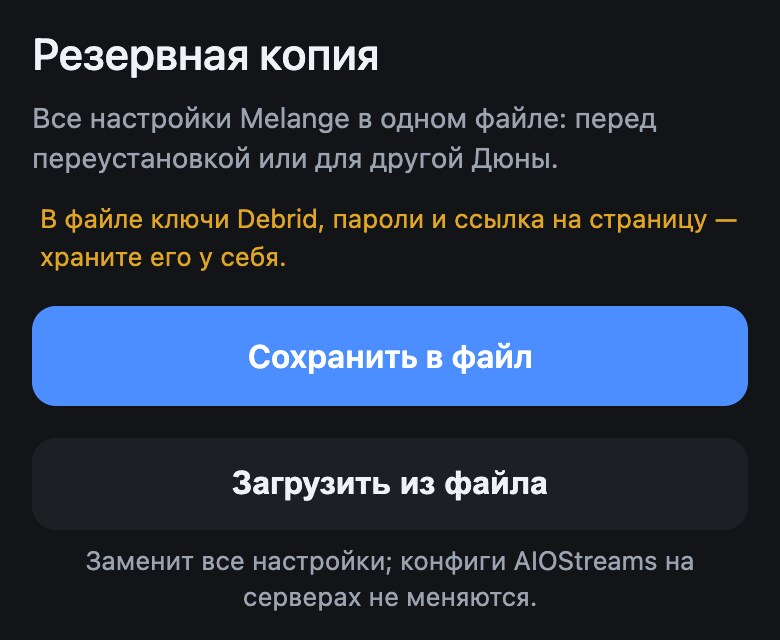
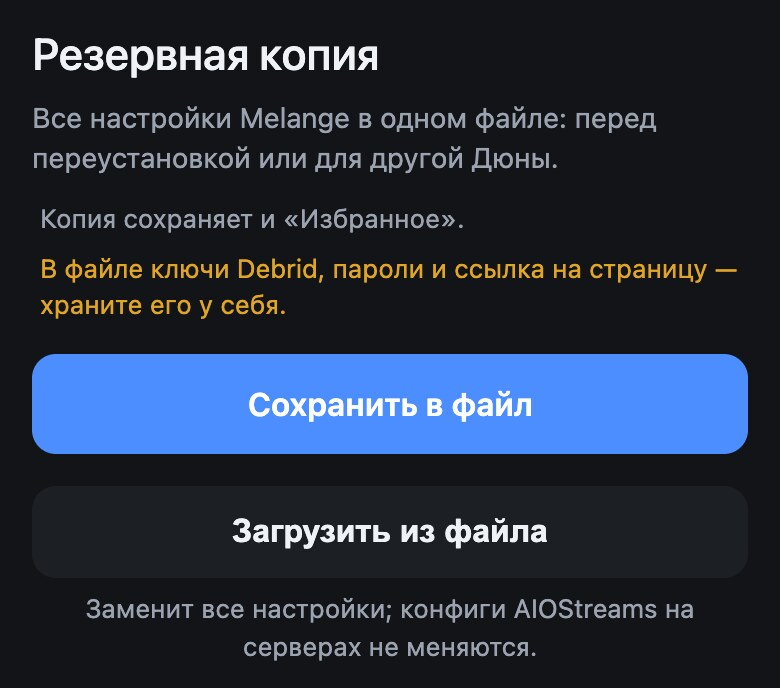
docs: пересняты каталог, своя карточка, «ТВ» и резервная копия под «Избранное», alt по кадрам

diff --git a/docs/tv-tab.md b/docs/tv-tab.md
@@ -14,11 +14,11 @@
 
 3. Под «ТВ» сразу появятся подпункты «Фильмы» и «Сериалы» с рядами каталога. ENTER на постере открывает карточку фильма. Ряды обновляются сами, примерно раз в час.
 
-   <img src="../screenshots/tv-tab-rows.jpg" alt="Вкладка «ТВ», подпункт «Фильмы» с рядами каталога Melange" width="100%">
+   <img src="../screenshots/tv-tab-rows.jpg" alt="Вкладка «ТВ», подпункт «Фильмы»: слева ряды Melange «Продолжить», «Избранное», «В тренде»" width="100%">
 
 4. На постере нажмите **POP UP**: там «Поиск», «Открыть Melange» и «Настройки», а также пункты «Избранного» и отметки просмотренным, как в каталоге ([«Продолжить» и «Избранное»](favorites.md)). Первые ряды «Фильмов» и «Сериалов» — «Продолжить» и «Избранное». Кнопки **Fav** на пульте здесь работают как обычно в Дюне.
 
-   <img src="../screenshots/tv-tab-poster.jpg" alt="POP UP-меню на постере во вкладке «ТВ»: «Поиск», «Открыть Melange», «Настройки»" width="100%">
+   <img src="../screenshots/tv-tab-poster.jpg" alt="POP UP-меню на постере во вкладке «ТВ»: «Убрать из «Продолжить»», «Отметить просмотренным», «Убрать из избранного», «Поиск», «Открыть Melange», «Настройки»" width="100%">
 
 ## Если не получилось
 

diff --git a/docs/watch.md b/docs/watch.md
@@ -6,7 +6,7 @@
 
 1. В каталоге Melange выберите вкладку «Фильмы» или «Сериалы» на полосе сверху.
 
-   <img src="../screenshots/watch-tabs.jpg" alt="Каталог Melange: фокус на вкладке «Фильмы», справа лупа и шестерёнка" width="100%">
+   <img src="../screenshots/watch-tabs.jpg" alt="Каталог Melange: фокус на вкладке «Фильмы», справа сердечко, лупа и шестерёнка" width="100%">
 
 2. Чтобы найти фильм по названию, откройте поиск (лупа на той же полосе), наберите название и подтвердите.
 
@@ -14,7 +14,7 @@
 
 3. Нажмите **ENTER** на постере. В карточке выберите «Смотреть».
 
-   <img src="../screenshots/own-card-film.jpg" alt="Карточка Melange «Тёмный рыцарь», фокус на «Смотреть»" width="100%">
+   <img src="../screenshots/own-card-film.jpg" alt="Карточка Melange «Тёмный рыцарь», фокус на «Смотреть», рядом «Трейлер» и «В избранное»" width="100%">
 
 4. Выберите раздачу и нажмите **ENTER**. Раздачи — это варианты файла фильма: качество, озвучка, размер. Чем больше сидов (раздающих, число в первой колонке), тем быстрее начнётся фильм.
 

diff --git a/docs/tv-tab.en.md b/docs/tv-tab.en.md
@@ -14,11 +14,11 @@ Show Melange catalog rows right on the Dune home screen, in the TV tab. [← Con
 
 3. Under TV, the "Movies" and "Series" sub-items appear right away, with the catalog rows. ENTER on a poster opens the movie card. The rows refresh by themselves, about once an hour.
 
-   <img src="../screenshots/tv-tab-rows.jpg" alt="TV tab, Movies sub-item with Melange catalog rows" width="100%">
+   <img src="../screenshots/tv-tab-rows.jpg" alt="TV tab, Movies sub-item: Melange rows Continue Watching, Favorites and others on the left" width="100%">
 
 4. On a poster, press **POP UP**: it has "Search", "Open Melange" and "Settings", plus the Favorites and mark-as-watched items, as in the catalog ([Continue Watching and Favorites](favorites.en.md)). The first rows of Movies and Series are Continue Watching and Favorites. The **Fav** buttons on the remote work here as usual in Dune.
 
-   <img src="../screenshots/tv-tab-poster.jpg" alt="POP UP menu on a poster in the TV tab: Search, Open Melange, Settings" width="100%">
+   <img src="../screenshots/tv-tab-poster.jpg" alt="POP UP menu on a poster in the TV tab: Remove from Continue Watching, Mark as watched, Remove from Favorites, Search, Open Melange, Settings" width="100%">
 
 ## If it did not work
 

diff --git a/docs/watch.en.md b/docs/watch.en.md
@@ -6,7 +6,7 @@ Find and play a movie, then continue from the same spot. [← Contents](README.e
 
 1. In the Melange catalog, choose the "Movies" or "Series" tab on the bar at the top.
 
-   <img src="../screenshots/watch-tabs.jpg" alt="Melange catalog: focus on the Movies tab, magnifier and gear on the right" width="100%">
+   <img src="../screenshots/watch-tabs.jpg" alt="Melange catalog: focus on the Movies tab, heart, magnifier and gear on the right" width="100%">
 
 2. To find a movie by title, open search (the magnifier on the same bar), type the title and confirm.
 
@@ -14,7 +14,7 @@ Find and play a movie, then continue from the same spot. [← Contents](README.e
 
 3. Press **ENTER** on the poster. On the card, choose "Watch".
 
-   <img src="../screenshots/own-card-film.jpg" alt="Melange card for The Dark Knight, focus on Watch" width="100%">
+   <img src="../screenshots/own-card-film.jpg" alt="Melange card for The Dark Knight, focus on Watch, Trailer and Favorites next to it" width="100%">
 
 4. Choose a release and press **ENTER**. Releases are versions of the movie file: quality, voice-over, size. The more seeders (people sharing it, the number in the first column), the sooner the movie starts.
 

diff --git a/README.md b/README.md
@@ -15,7 +15,7 @@ Melange превращает Дюну в онлайн-кинотеатр. Под
 - озвучки студий — по названию раздачи и её дорожкам, а также дорожки и озвучки из JacRed;
 - настройка с телефона по QR-коду, там же — «Скачать лог».
 
-<img src="screenshots/catalog.jpg" alt="Каталог Melange: ряды подборок и постеры" width="100%">
+<img src="screenshots/catalog.jpg" alt="Каталог Melange: вкладки «Фильмы» и «Сериалы», ряды «Продолжить», «Избранное», «В тренде»" width="100%">
 
 <img src="screenshots/film-list.jpg" alt="Слева — список раздач с Debrid: молния у раздач в кэше, подробности выбранной раздачи" width="49%"> <img src="screenshots/film-list-p2p.jpg" alt="Справа — тот же фильм в режиме «Торренты»: в первой колонке число сидов, слева «P2P · 407 сидов»" width="49%">
 

diff --git a/docs/backup.md b/docs/backup.md
@@ -6,7 +6,7 @@
 
 1. На странице настроек ([Страница настроек с телефона](phone-page.md)) откройте «Резервная копия» в разделе «Ещё».
 
-   <img src="../screenshots/backup-screen.jpg" alt="Экран «Резервная копия»: кнопки «Сохранить в файл» и «Загрузить из файла»" width="300">
+   <img src="../screenshots/backup-screen.jpg" alt="Экран «Резервная копия»: подсказка «Копия сохраняет и «Избранное».», кнопки «Сохранить в файл» и «Загрузить из файла»" width="300">
 
 2. Нажмите «Сохранить в файл». Телефон скачает файл `melange-settings-….json`. В нём то, что вы вводили в Melange: ключи Debrid и своего JacRed, пароли TorrServer и сервера закачки, а также «Избранное». Не выкладывайте его в открытый доступ.
 

diff --git a/docs/start.md b/docs/start.md
@@ -72,7 +72,7 @@ Melange — каталог фильмов и сериалов для Dune HD. В
 
 4. Откроется каталог Melange: можно выбирать фильм.
 
-   <img src="../screenshots/catalog.jpg" alt="Каталог Melange: сверху вкладки «Фильмы» и «Сериалы», лупа и шестерёнка, ниже ряды подборок" width="100%">
+   <img src="../screenshots/catalog.jpg" alt="Каталог Melange: сверху вкладки «Фильмы» и «Сериалы», справа сердечко, лупа и шестерёнка, ниже ряды «Продолжить», «Избранное», «В тренде»" width="100%">
 
    Если появилось «TorrServer не отвечает», откройте TorrServe (он запустит сервер), потом снова Melange. Не помогло — проверьте шаг 1.
 

diff --git a/README.en.md b/README.en.md
@@ -15,7 +15,7 @@ What it does:
 - studio voice-overs (dubbing studios), from the release name and its tracks, plus tracks and voice-overs from JacRed;
 - setup from a phone via a QR code, with **Download the log** on the same page.
 
-<img src="screenshots/catalog.jpg" alt="Melange catalog: rows of collections and posters" width="100%">
+<img src="screenshots/catalog.jpg" alt="Melange catalog: Movies and Series tabs, Continue Watching, Favorites and other rows" width="100%">
 
 <img src="screenshots/film-list.jpg" alt="Left: the release list with Debrid, a lightning bolt on cached releases, details of the selected release" width="49%"> <img src="screenshots/film-list-p2p.jpg" alt="Right: the same movie in Torrents mode, seeder counts in the first column, P2P with 407 seeders on the left" width="49%">
 

diff --git a/docs/backup.en.md b/docs/backup.en.md
@@ -6,7 +6,7 @@ Removing Melange erases all its settings, so save the file before you remove it.
 
 1. On the settings page ([Settings page on a phone](phone-page.en.md)), open "Backup" in the "More" section.
 
-   <img src="../screenshots/backup-screen.jpg" alt="Backup screen: Save to a file and Load from a file buttons" width="300">
+   <img src="../screenshots/backup-screen.jpg" alt="Backup screen: the hint that the backup includes Favorites, Save to a file and Load from a file buttons" width="300">
 
 2. Press "Save to a file". The phone downloads a `melange-settings-….json` file. It holds what you entered in Melange: the Debrid keys and the key of your own JacRed, the TorrServer and download server passwords, and Favorites. Do not share it publicly.
 

diff --git a/docs/appearance.md b/docs/appearance.md
@@ -32,7 +32,7 @@
 
    Включена:
 
-   <img src="../screenshots/appearance-card-own.jpg" alt="Своя карточка Melange «Проект «Конец света»»: логотип, рейтинги КП и IMDb, кнопки «Смотреть», «Трейлер», «В избранное», ряд «Похожие»" width="100%">
+   <img src="../screenshots/appearance-card-own.jpg" alt="Своя карточка Melange «Проект «Конец света»»: логотип, рейтинги КП и IMDb, кнопки «Смотреть», «Трейлер», «♡ В избранное», ряд «Похожие»" width="100%">
 
    Выключена:
 

diff --git a/docs/start.en.md b/docs/start.en.md
@@ -72,7 +72,7 @@ Next: [first setup](#first-setup).
 
 4. The Melange catalog opens: you can pick a movie.
 
-   <img src="../screenshots/catalog.jpg" alt="Melange catalog: Movies and Series tabs at the top, magnifier and gear, collection rows below" width="100%">
+   <img src="../screenshots/catalog.jpg" alt="Melange catalog: Movies and Series tabs at the top, heart, magnifier and gear on the right, Continue Watching, Favorites and other rows below" width="100%">
 
    If you see "TorrServer does not answer", open TorrServe (it starts the server), then Melange again. If that does not help, check step 1.
 
